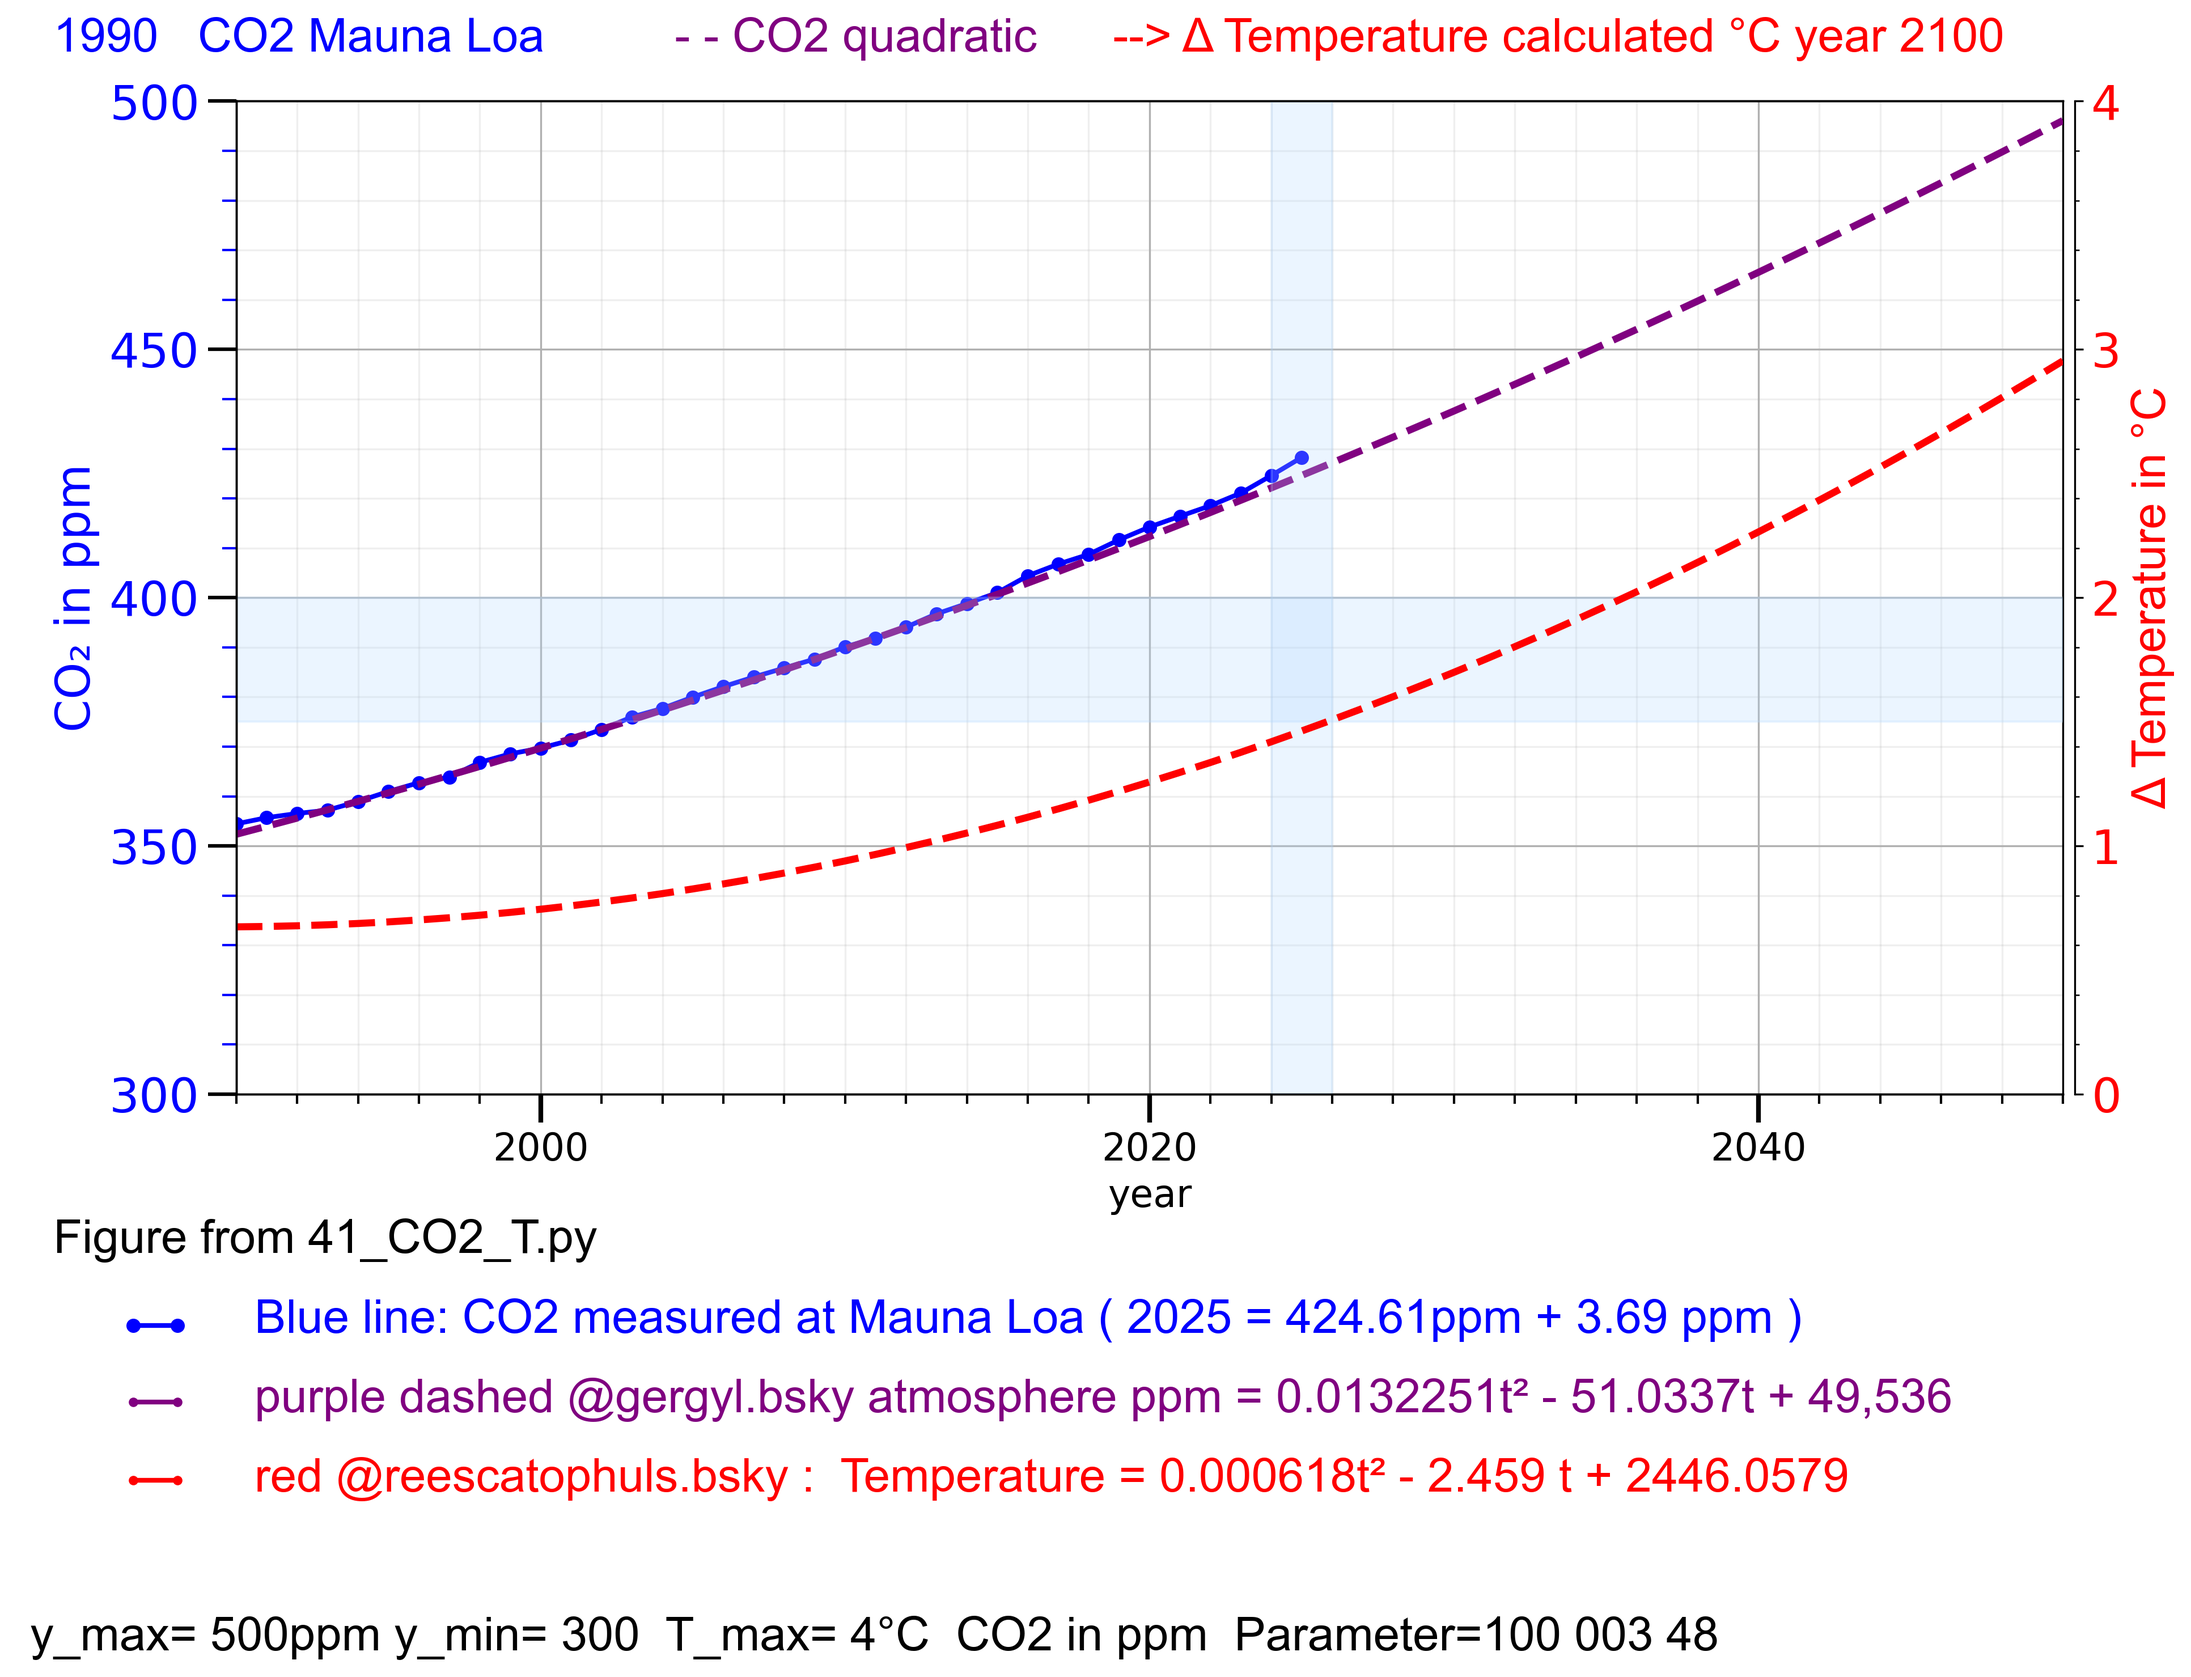
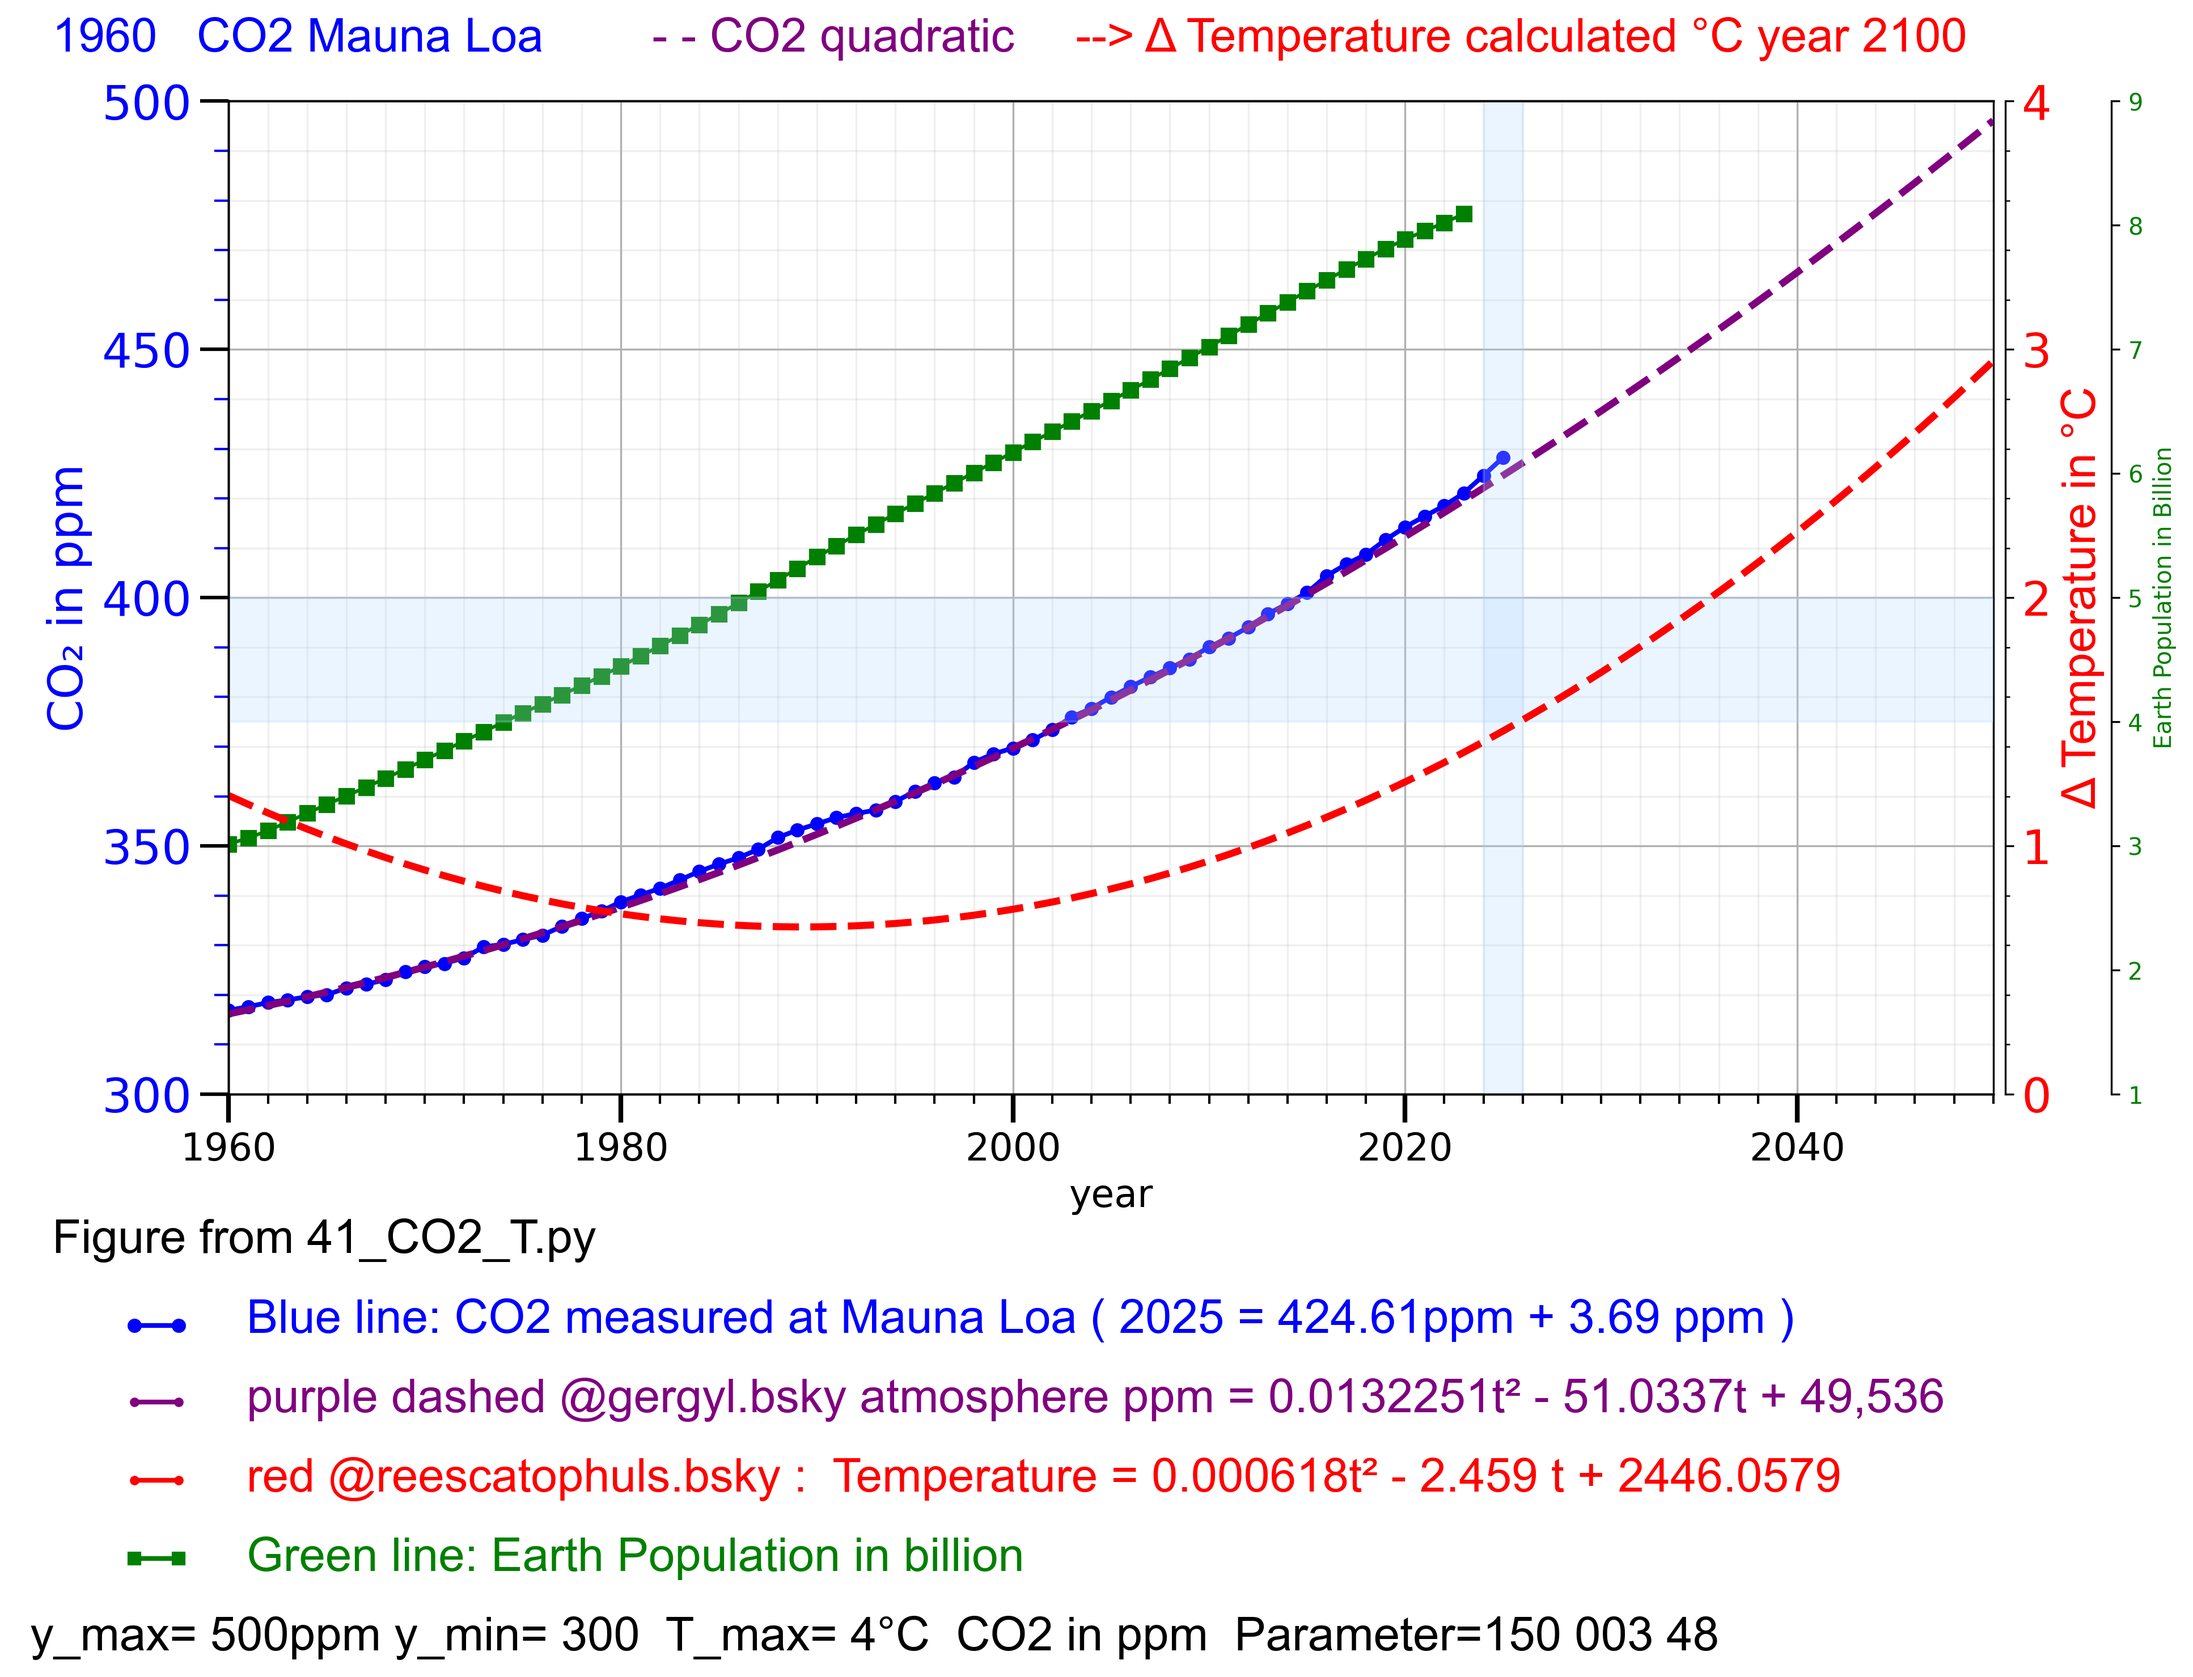
41e5 #Levermann 28 3

diff --git a/41_CO2_T.py b/41_CO2_T.py
@@ -19,7 +19,7 @@ import sys
 # 0.2 Parameter decide which curves to plot
 plot1_Mauna_Loa_ = 1 # 2 print in line 2 # 0 no plot CO2 # 1 Mauna Loa 
 c1 = "blue" # plot1 color
-Kurve2_population_on = 0 # 5 3, 4, 5 0 row 5 # 0=no print , 1 = Bevölkerung in grün
+Kurve2_population_on = 5 # 5 3, 4, 5 0 row 5 # 0=no print , 1 = Bevölkerung in grün
 plot3_delta_CO2_red_bars = 0 # 3 4 0 7 8 keine delta_CO2 , 1 = delta_CO2 in rot , 7,8 mit Beschriftung   
 plot4_CO2_orange2025 = 0 # 3, 4, 0 orange Glen , 1 = 0.013t² - 51t + 49,536 in rot 3 works plot4_CO2_orange2025
 Kurve5_Glen_delta_on = 0 # 3, 4, 0 print row 4 # green Glen diff print in line 4
@@ -37,7 +37,7 @@ y_max = 500 # min value 440 70
 y_Tmin = 0 # min value °C
 y_Tmax = 4 # 40 # max value C
 
-x_anf = 1990 # 1960 geht, 2000 geht
+x_anf = 1960 # 1960 geht, 2000 geht
 x_end = 2050 # 2026 geht
 
 ydiff = (y_max - y_min) / 10 # for y axis scale print
